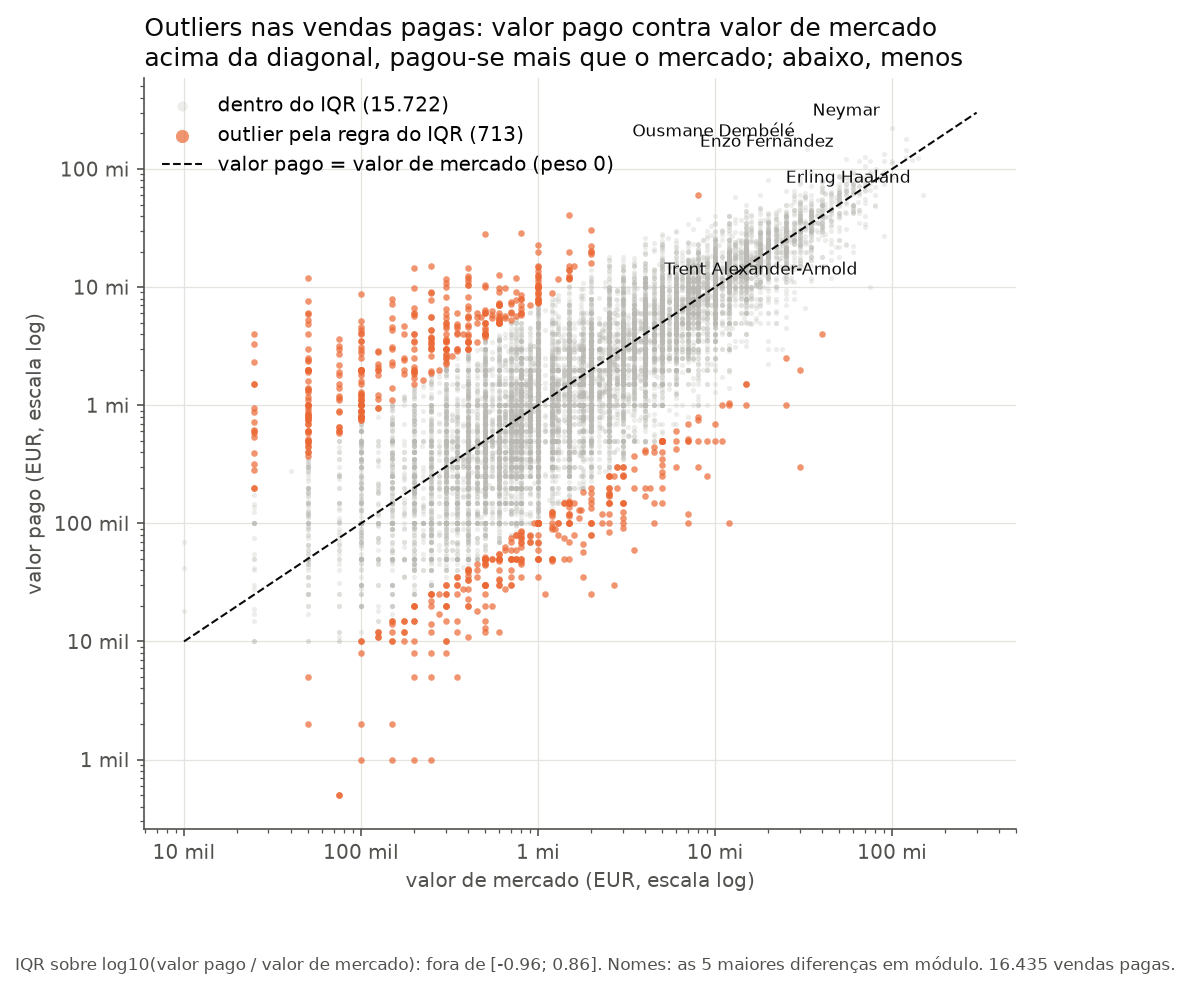
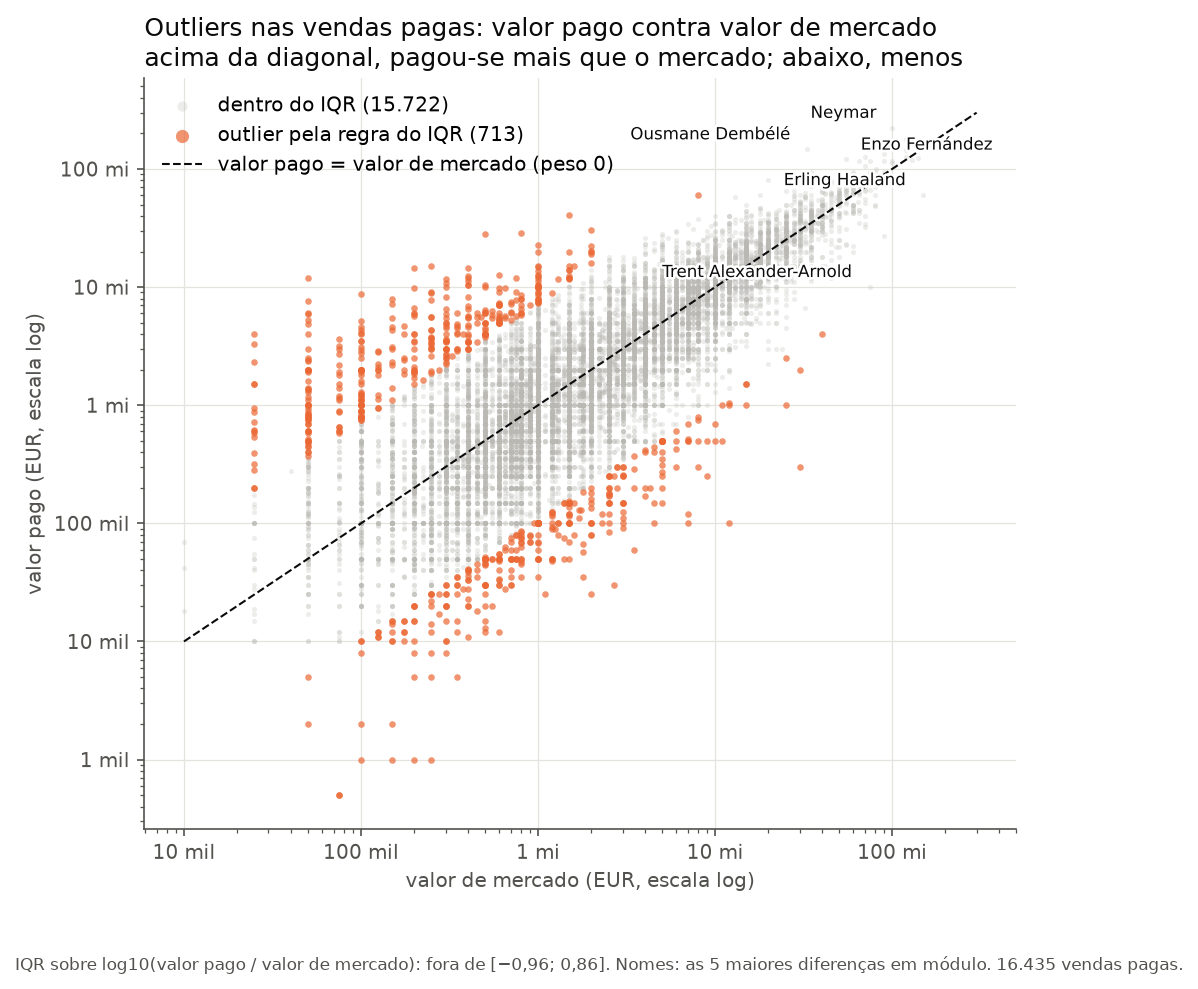
e5: nomes dos jogadores sem sobreposicao
Dembélé e Enzo Fernández se sobrepunham e Haaland ficava em cima dos pontos.
Cada nome vai para a primeira posição candidata em que não cobre outro
rótulo, a legenda nem sai do eixo, com contorno branco para leitura sobre a
nuvem de pontos. milhoes_ou_mil() sai: eur() faz o mesmo.

diff --git a/src/viz_parte2.py b/src/viz_parte2.py
@@ -273,33 +273,27 @@ def outliers(t, saida):
     fora = (pagas["log_razao"] < lim["limite_inferior"]) | (pagas["log_razao"] > lim["limite_superior"])
     fig, ax = plt.subplots(figsize=(7.5, 6.5))
     ax.scatter(pagas.loc[~fora, "market_value_in_eur"], pagas.loc[~fora, "transfer_fee"], s=6, alpha=0.25,
-               color=NEUTRO, linewidths=0, label=f"dentro do IQR ({(~fora).sum():,})".replace(",", "."))
+               color=NEUTRO, linewidths=0, label=f"dentro do IQR ({br((~fora).sum())})")
     ax.scatter(pagas.loc[fora, "market_value_in_eur"], pagas.loc[fora, "transfer_fee"], s=10, alpha=0.7,
-               color=DESTAQUE, linewidths=0, label=f"outlier pela regra do IQR ({fora.sum():,})".replace(",", "."))
+               color=DESTAQUE, linewidths=0, label=f"outlier pela regra do IQR ({br(fora.sum())})")
     x = np.array([1e4, 3e8])
     ax.plot(x, x, color=TEXTO, lw=1, ls="--", label="valor pago = valor de mercado (peso 0)")
-    for r in pagas.reindex(pagas["peso"].abs().sort_values(ascending=False).index).head(5).itertuples():
-        ax.annotate(r.player_name, (r.market_value_in_eur, r.transfer_fee), xytext=(-6, 6),
-                    textcoords="offset points", ha="right", fontsize=8, color=TEXTO)
     ax.set_xscale("log")
     ax.set_yscale("log")
-    ax.xaxis.set_major_formatter(FuncFormatter(milhoes_ou_mil))
-    ax.yaxis.set_major_formatter(FuncFormatter(milhoes_ou_mil))
+    ax.xaxis.set_major_formatter(FuncFormatter(eur))
+    ax.yaxis.set_major_formatter(FuncFormatter(eur))
     ax.set_xlabel("valor de mercado (EUR, escala log)")
     ax.set_ylabel("valor pago (EUR, escala log)")
     ax.set_title("Outliers nas vendas pagas: valor pago contra valor de mercado\n"
                  "acima da diagonal, pagou-se mais que o mercado; abaixo, menos")
-    ax.legend(loc="upper left", markerscale=2)
-    rodape(fig, f"IQR sobre log10(valor pago / valor de mercado): fora de [{lim['limite_inferior']:.2f}; "
-                f"{lim['limite_superior']:.2f}]. Nomes: as 5 maiores diferenças em módulo. "
+    legenda = ax.legend(loc="upper left", markerscale=2)
+    maiores = pagas.reindex(pagas["peso"].abs().sort_values(ascending=False).index).head(5)
+    rotular_sem_sobrepor(ax, [(r.market_value_in_eur, r.transfer_fee, r.player_name) for r in maiores.itertuples()],
+                         evitar=[legenda])
+    rodape(fig, f"IQR sobre log10(valor pago / valor de mercado): fora de [{br(lim['limite_inferior'], 2)}; "
+                f"{br(lim['limite_superior'], 2)}]. Nomes: as 5 maiores diferenças em módulo. "
                 f"{br(len(pagas))} vendas pagas.")
     return salvar(fig, Path(saida) / "e5_outliers.png")
-
-
-def milhoes_ou_mil(x, _=None):
-    if x >= 1e6:
-        return f"{x / 1e6:g} mi"
-    return f"{x / 1e3:g} mil"
 
 
 # --- explanatórias ---
